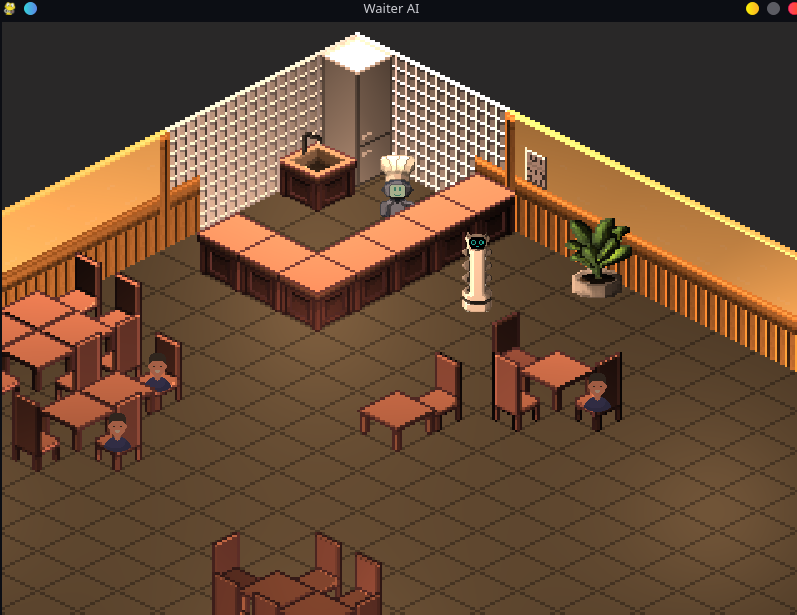
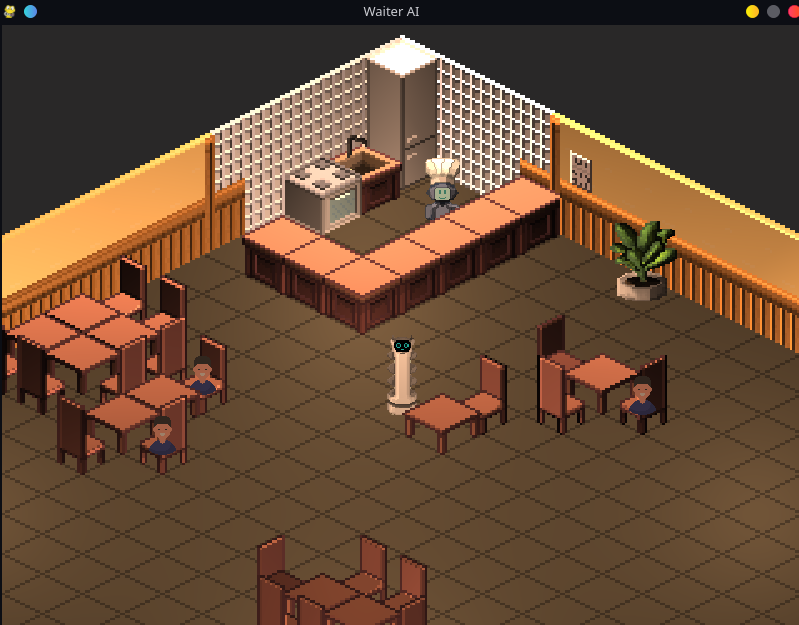
Stove
Revert "Added table and chairs"

This reverts commit 4551d96ee76f43f1178b94454dea4d87f4496112.

diff --git a/AI/Classes/Model.py b/AI/Classes/Model.py
@@ -17,6 +17,7 @@ from Classes.Objects.Beings.Cook import Cook
 from Classes.Core.Object.Wall import Wall
 from Classes.Objects.Static.Sink import Sink
 from Classes.Objects.Static.Fridge import Fridge
+from Classes.Objects.Static.Stove import Stove
 from Classes.Objects.Static.OrderList import OrderList
 from Classes.Objects.Static.Flower import Flower
 
@@ -109,16 +110,10 @@ class Model:
         Table([7,6]),
         Table([10,12]),
         Table([11,12]),
-
         Table([0, 8]),
         Table([0, 9]),
         Table([1, 8]),
         Table([1, 9]),
-
-        Table([0, 15]),
-        Table([0, 16]),
-        Table([1, 15]),
-        Table([1, 16])
     ], dtype=Table)
 
     self._chairs: np.ndarray[Chair] = np.array([
@@ -141,11 +136,6 @@ class Model:
         Chair([2, 9], "souteast"),
         Chair([0, 10], "southwest"),
         Chair([1, 10], "southwest"),
-
-        Chair([0, 14]),
-        Chair([1, 14]),
-        Chair([0, 17], "southwest"),
-        Chair([1, 17], "southwest")
     ], dtype=Chair)
 
     self._counters: np.ndarray[Counter] = np.array([
@@ -162,9 +152,13 @@ class Model:
       Sink([0,1]),
     ], dtype=Sink)
 
-    self._fridges: np.ndarray[Sink] = np.array([
+    self._fridges: np.ndarray[Fridge] = np.array([
       Fridge([0,0]),
-    ], dtype=Sink)
+    ], dtype=Fridge)
+
+    self._stoves: np.ndarray[Stove] = np.array([
+      Stove([0,2]),
+    ], dtype=Stove)
 
 
     self._flowers: np.ndarray[Flower] = np.array([
@@ -228,7 +222,7 @@ class Model:
 
     # Create List of Objects to Render
     self._render_objects: list[Object] = [ self._waiter, self._cook, *self._clients, self.order_list, *self._tables, *self._chairs, 
-                                                          *self._counters, *self._sinks, *self._fridges, *self._flowers ]
+                                            *self._counters, *self._sinks, *self._fridges, *self._flowers, *self._stoves ]
     for el in self._walls:
       objects = el.getObjects()
       for ela in objects:

diff --git a/AI/Classes/Objects/TextureManager.py b/AI/Classes/Objects/TextureManager.py
@@ -110,3 +110,8 @@ FRIDGE_TEXTURE = Texture(texture_path=os.path.join(PATH_TO_ASSETS, "Handmade", "
 									   								 normal_texture_path=os.path.join(PATH_TO_ASSETS, "Handmade", "Static", "Fridge", "Fridge_Normals.png"),
 																		 size=[2, 4])
  
+# Stove
+STOVE_TEXTURE = Texture(texture_path=os.path.join(PATH_TO_ASSETS, "Handmade", "Static", "Stove", "Stove.png"), 
+									   								 normal_texture_path=os.path.join(PATH_TO_ASSETS, "Handmade", "Static", "Stove", "Stove_Normals.png"),
+																		 size=[2, 2])
+ 

diff --git a/AI/Classes/Objects/Static/Stove.py b/AI/Classes/Objects/Static/Stove.py
@@ -1,0 +1,22 @@
+import os
+import numpy as np
+
+from Classes.Core.Object.Object import Object
+
+import Classes.Objects.TextureManager as TextureManager
+
+from conf import TILE_SIZE
+
+
+
+
+
+
+
+
+
+class Stove(Object):
+	def __init__(self, position: np.ndarray[int], render_order: int = 1):
+		super().__init__(render_order=render_order, 
+									 	 texture=TextureManager.STOVE_TEXTURE,
+											position=position, size=[2,2])
